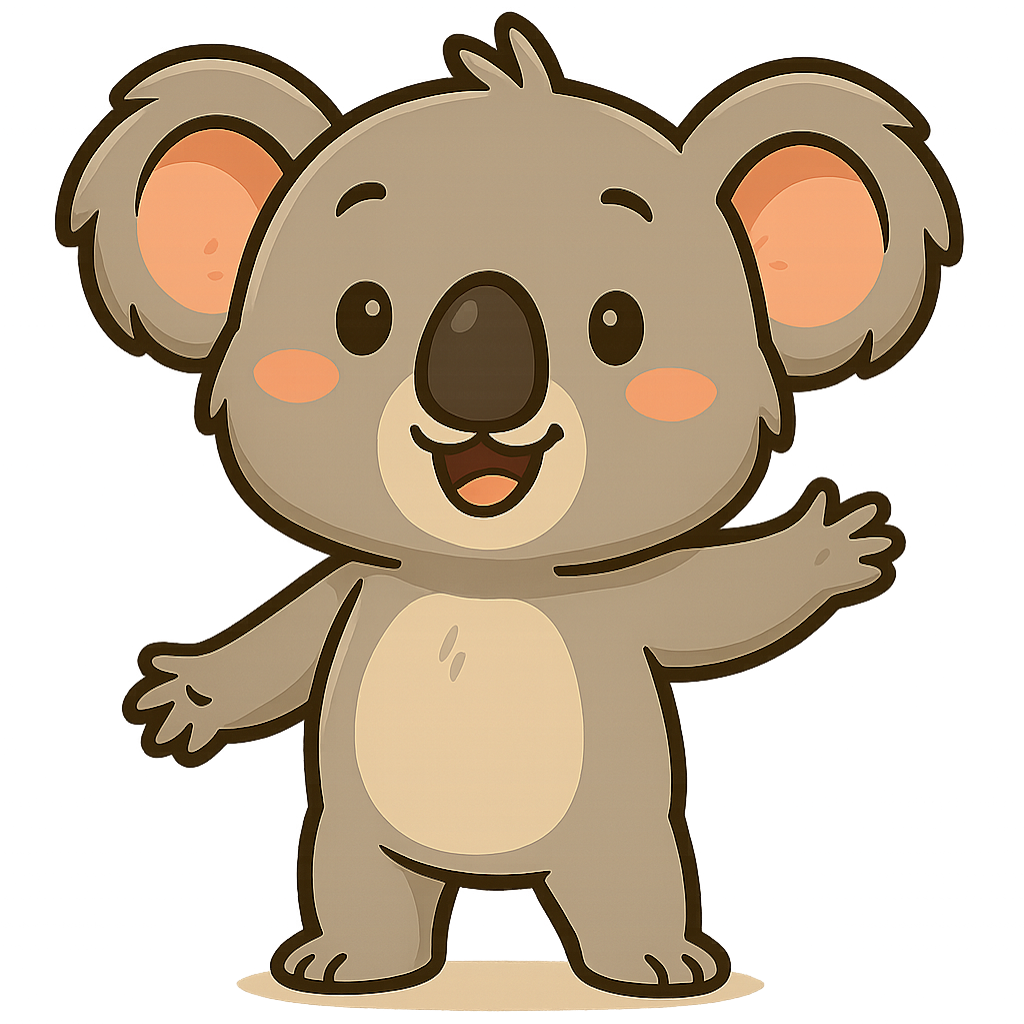
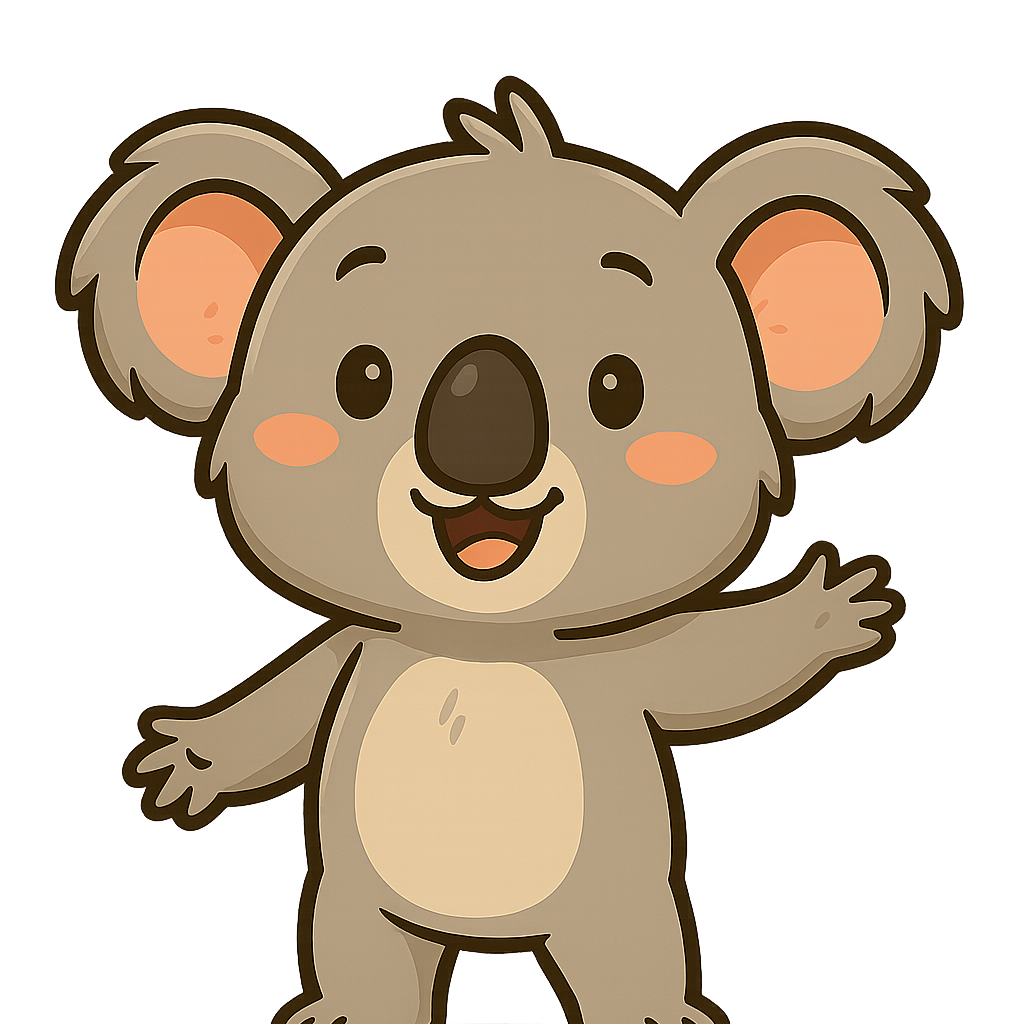
ready for app store, beta version testing done

diff --git a/app/(home)/therapist.js b/app/(home)/therapist.js
@@ -458,76 +458,86 @@ const TherapistChat = () => {
 
   // renders the full therapist chat screen UI
   return (
-    <SafeAreaView style={styles.container}>
-      <View
-        style={{
-          flexDirection: "row",
-          justifyContent: "center",
-          marginTop: 20,
-        }}
-      >
-        {["en", "es", "fr", "zh", "hi"].map((lang) => (
-          <TouchableOpacity
-            key={lang}
+    <KeyboardAvoidingView
+      style={{ flex: 1 }}
+      behavior={Platform.OS === "ios" ? "padding" : undefined}
+      keyboardVerticalOffset={Platform.OS === "ios" ? 0 : 0} // adjust if needed
+    >
+      <TouchableWithoutFeedback onPress={Keyboard.dismiss}>
+        <SafeAreaView style={styles.container}>
+          {/* your full existing layout here */}
+          <View
             style={{
-              marginHorizontal: 6,
-              backgroundColor:
-                selectedLanguage === lang ? "#196315" : "#E9E9EB",
-              borderRadius: 8,
-              padding: 4,
+              flexDirection: "row",
+              justifyContent: "center",
+              marginTop: 20,
             }}
-            onPress={() => setSelectedLanguage(lang)}
           >
-            <Image
-              source={flagIcons[lang]}
-              style={{ width: 32, height: 20, borderRadius: 4 }}
-              resizeMode="cover"
-            />
-          </TouchableOpacity>
-        ))}
-      </View>
+            {["en", "es", "fr", "zh", "hi"].map((lang) => (
+              <TouchableOpacity
+                key={lang}
+                style={{
+                  marginHorizontal: 6,
+                  backgroundColor:
+                    selectedLanguage === lang ? "#196315" : "#E9E9EB",
+                  borderRadius: 8,
+                  padding: 4,
+                }}
+                onPress={() => setSelectedLanguage(lang)}
+              >
+                <Image
+                  source={flagIcons[lang]}
+                  style={{ width: 32, height: 20, borderRadius: 4 }}
+                  resizeMode="cover"
+                />
+              </TouchableOpacity>
+            ))}
+          </View>
 
-      <FlatList
-        data={messages}
-        renderItem={renderMessage}
-        keyExtractor={(_, index) => index.toString()}
-        style={styles.messageList}
-      />
-      <View style={styles.inputContainer}>
-        <TextInput
-          style={styles.input}
-          value={inputText}
-          onChangeText={setInputText}
-          placeholder="Type your message..."
-          multiline
-        />
-        <TouchableOpacity
-          style={styles.sendButton}
-          onPress={() => sendMessage()}
-          disabled={isLoading}
-        >
-          {isLoading ? (
-            <Text style={styles.sendButtonText}>...</Text>
-          ) : (
-            <FontAwesome name="send" size={20} color="#fff" />
-          )}
-        </TouchableOpacity>
-        <Animated.View style={{ transform: [{ scale: pulseAnim }] }}>
-          <TouchableOpacity
-            style={[
-              styles.sendButton,
-              {
-                marginLeft: 10,
-                backgroundColor: isRecording ? "#e74c3c" : "#2ecc71",
-              },
-            ]}
-            onPress={isRecording ? stopRecording : startRecording}
-          >
-            <MaterialIcons name="keyboard-voice" size={24} color="#fff" />
-          </TouchableOpacity>
-        </Animated.View>
-      </View>
-    </SafeAreaView>
+          <FlatList
+            data={messages}
+            renderItem={renderMessage}
+            keyExtractor={(_, index) => index.toString()}
+            style={styles.messageList}
+          />
+
+          <View style={styles.inputContainer}>
+            <TextInput
+              style={styles.input}
+              value={inputText}
+              onChangeText={setInputText}
+              placeholder="Type your message..."
+              multiline
+            />
+            <TouchableOpacity
+              style={styles.sendButton}
+              onPress={() => sendMessage()}
+              disabled={isLoading}
+            >
+              {isLoading ? (
+                <Text style={styles.sendButtonText}>...</Text>
+              ) : (
+                <FontAwesome name="send" size={20} color="#fff" />
+              )}
+            </TouchableOpacity>
+            <Animated.View style={{ transform: [{ scale: pulseAnim }] }}>
+              <TouchableOpacity
+                style={[
+                  styles.sendButton,
+                  {
+                    marginLeft: 10,
+                    backgroundColor: isRecording ? "#e74c3c" : "#2ecc71",
+                  },
+                ]}
+                onPress={isRecording ? stopRecording : startRecording}
+              >
+                <MaterialIcons name="keyboard-voice" size={24} color="#fff" />
+              </TouchableOpacity>
+            </Animated.View>
+          </View>
+        </SafeAreaView>
+      </TouchableWithoutFeedback>
+    </KeyboardAvoidingView>
   );
 };
 

diff --git a/app/components/KoalaAnimations.js b/app/components/KoalaAnimations.js
@@ -1,6 +1,5 @@
 import React from "react";
-import { View, StyleSheet, Image } from "react-native";
-import { WebView } from "react-native-webview";
+import { View, Image, StyleSheet } from "react-native";
 
 // Map animation types to GIFs
 const gifMap = {
@@ -19,56 +18,12 @@ const defaultStyles = {
 };
 
 const KoalaAnimation = ({ type = "hi", style = {} }) => {
-  const source = gifMap[type];
-
-  if (!source) {
-    console.warn(
-      `[KoalaAnimation] Unknown type "${type}", falling back to "hi"`
-    );
-  }
-
-  const uri = Image.resolveAssetSource(source || gifMap.hi).uri;
+  const source = gifMap[type] || gifMap.hi;
   const baseStyle = defaultStyles[type] || defaultStyles.hi;
-
-  const html = `
-    <!DOCTYPE html>
-    <html>
-      <head>
-        <meta name="viewport" content="width=device-width, initial-scale=1.0">
-        <style>
-          html, body {
-            margin: 0;
-            padding: 0;
-            background: transparent;
-            display: flex;
-            align-items: center;
-            justify-content: center;
-            height: 100%;
-            width: 100%;
-            overflow: hidden;
-          }
-          img {
-            max-width: 90%;
-            max-height: 80%;
-          }
-        </style>
-      </head>
-      <body>
-        <img src="${uri}" />
-      </body>
-    </html>
-  `;
 
   return (
     <View style={[styles.container, style]}>
-      <WebView
-        originWhitelist={["*"]}
-        source={{ html }}
-        style={[styles.webview, baseStyle, style]} // base + override
-        scrollEnabled={false}
-        bounces={false}
-        backgroundColor="transparent"
-      />
+      <Image source={source} style={[baseStyle, style]} resizeMode="contain" />
     </View>
   );
 };
@@ -77,10 +32,6 @@ const styles = StyleSheet.create({
   container: {
     alignItems: "center",
     justifyContent: "center",
-    overflow: "visible",
-  },
-  webview: {
-    backgroundColor: "transparent",
   },
 });
 

diff --git a/app.config.js b/app.config.js
@@ -57,6 +57,7 @@ export default {
       googleTTSKey: process.env.EXPO_PUBLIC_GOOGLE_TTS_KEY,
       openaiKey: process.env.EXPO_PUBLIC_OPENAI_API_KEY,
     },
+    assetBundlePatterns: ["**/*"],
     owner: "deanbarrow10",
   },
 };
